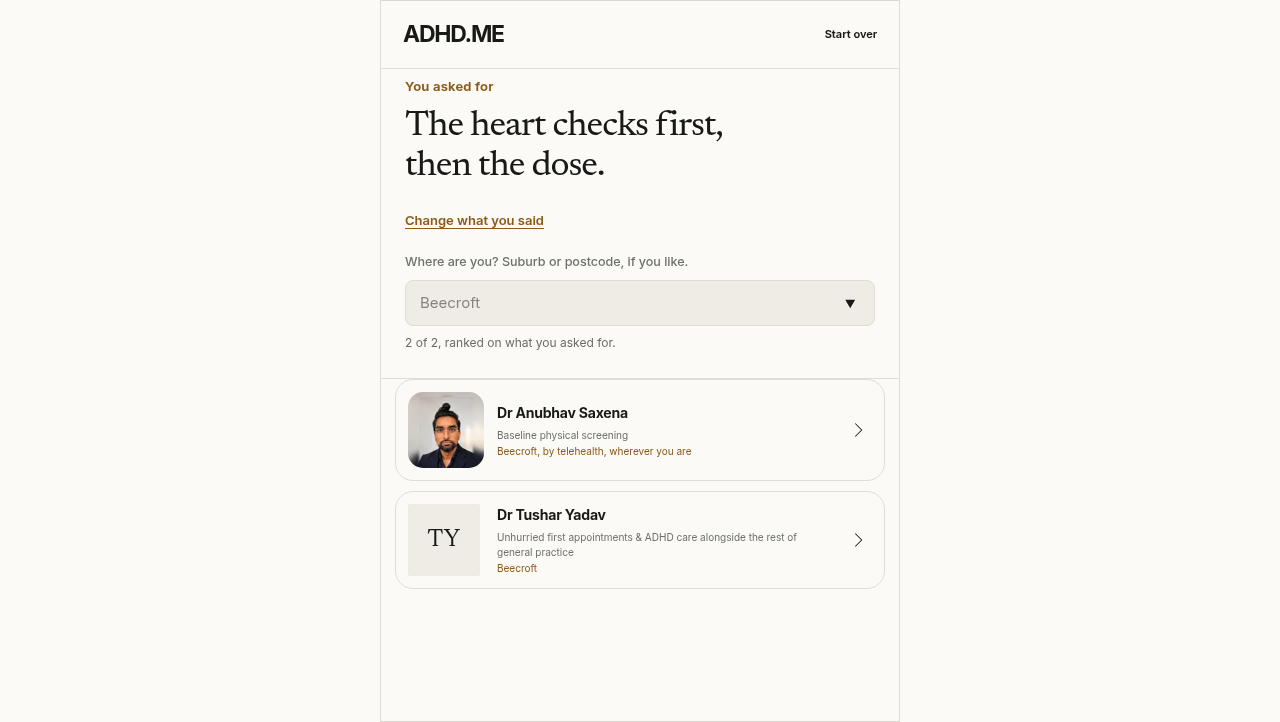
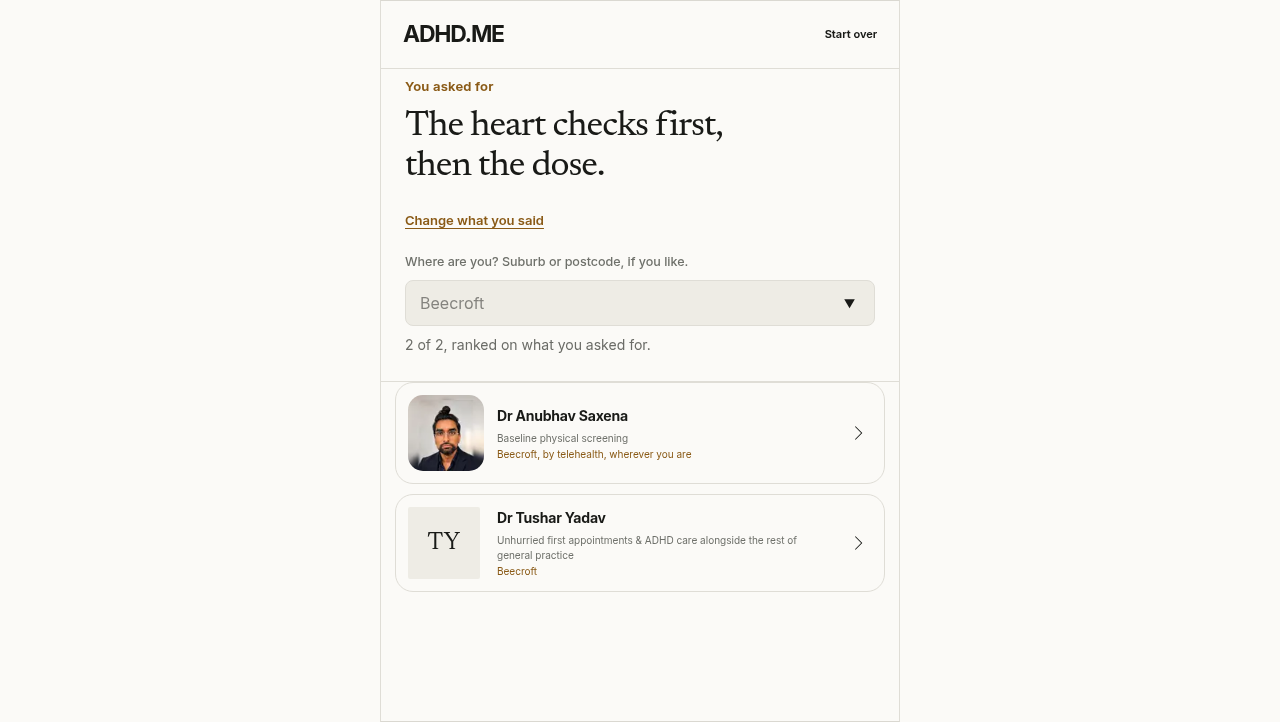
O14: the low-vision audit - contrast held, the size hierarchy was upside down
Audited the matcher and results screens for a visually impaired
elderly reader. Contrast passes AA on every measured pair (table in
design-qa.md) - but AA at 12px is compliant and still unreadable, and
the 12px text was exactly what the screen turns on: the match reason
on each row, the 'this is not a ranking' banner, the closed-books
warning. The decorative headline ran 27px while the consequential
sentences ran 12px grey.

- Row reasons 14px, names 16px, count line 14px, quality banner and
  tie note 15px muted, clarify lead 14px, chips 15px.
- iOS force-zoom killed: the suburb field goes 15->16px (the iOS
  threshold below which focusing an input zooms the whole page).
- iOS sticky hover killed: hover styles now under @media (hover:
  hover) - a tapped clarifier chip stayed white-with-border and read
  as a selected state meaning nothing (visible in the production
  screenshot that triggered O13).
- Touch targets (>=44px), focus-visible outlines, role=status and
  real-button rows verified and recorded.
- Known bound recorded: px sizing means browser zoom works but OS
  font-size preference does not; a rem migration is filed as a
  decision, not a discovery.

mobile-fit (390px), a11y and the screenshot specs all green after.

Vault log skipped: Stefan-Brain unreachable from this session.

Claude-Session: https://claude.ai/code/session_01TVamNq6Z6TcjKFmyw63W9E

diff --git a/app/globals.css b/app/globals.css
@@ -671,15 +671,20 @@ textarea:focus-visible {
   width: 100%;
   min-height: 46px;
   padding: 0 14px;
+  /* 16px is the iOS threshold below which focusing an input force-zooms the page (O14). */
   border: 1px solid var(--line);
   border-radius: 8px;
   color: var(--ink);
   background: var(--stone);
   font: inherit;
-  font-size: 15px;
+  font-size: 16px;
 }
 .place-field input:focus-visible { outline: 2px solid var(--accent); outline-offset: 2px; }
-.place-status { margin: 8px 0 0; color: var(--faint); font-size: 12px; line-height: 1.5; }
+.place-status { margin: 8px 0 0; color: var(--faint); font-size: 14px; line-height: 1.5; }
+/* The match-quality banner and top-tie note carry the sentence the whole screen turns on —
+   "this is not a ranking". They were 12px faint grey: AA-compliant and functionally invisible
+   to the low-vision reader the finder most needs to be honest with (O14). */
+.match-quality { font-size: 15px; color: var(--muted); }
 
 /* The computed distance, on its own line so it does not join the metadata dot chain. */
 .clinician-distance { display: block; margin-top: 3px; color: var(--faint); }
@@ -810,8 +815,10 @@ textarea:focus-visible {
   cursor: pointer;
 }
 
-.clinician-row:hover {
-  background: #f6f4ee;
+@media (hover: hover) {
+  .clinician-row:hover {
+    background: #f6f4ee;
+  }
 }
 
 .clinician-row img {
@@ -832,7 +839,7 @@ textarea:focus-visible {
 
 .clinician-row strong {
   margin-bottom: 5px;
-  font-size: 15px;
+  font-size: 16px;
   letter-spacing: -0.015em;
 }
 
@@ -846,7 +853,10 @@ textarea:focus-visible {
   line-clamp: 2;
   overflow: hidden;
   color: var(--muted);
-  font-size: 12px;
+  /* 12px put the match REASON — the one line that decides between rows — in the smallest type
+     on the screen, under a 15px name and a 27px headline. Inverted hierarchy for the reader
+     who most needs the reason legible (O14). */
+  font-size: 14px;
   line-height: 1.45;
 }
 
@@ -5442,14 +5452,14 @@ textarea:focus-visible {
    is that answering costs one tap, and a text box would ask the reader to do
    again the thing that just did not work. */
 .clarify { margin-top: 14px; padding-top: 14px; border-top: 1px solid var(--line); }
-.clarify-lead { margin: 0 0 9px; color: var(--muted); font-size: 13px; }
+.clarify-lead { margin: 0 0 9px; color: var(--muted); font-size: 14px; }
 .clarify-row { display: flex; flex-wrap: wrap; gap: 8px; margin: 0; padding: 0; list-style: none; }
 .clarify-chip {
   min-height: 44px; padding: 9px 15px; border: 1px solid var(--accent-tint); border-radius: 999px;
-  background: var(--accent-soft); color: var(--ink); font: inherit; font-size: 13.5px;
+  background: var(--accent-soft); color: var(--ink); font: inherit; font-size: 15px;
   text-align: left; cursor: pointer; transition: background-color .18s ease, border-color .18s ease;
 }
-.clarify-chip:hover { background: #fff; border-color: var(--accent); }
+@media (hover: hover) { .clarify-chip:hover { background: #fff; border-color: var(--accent); } }
 .clarify-chip:focus-visible { outline: 2px solid var(--accent); outline-offset: 2px; }
 @media (prefers-reduced-motion: reduce) { .clarify-chip { transition: none; } }
 

diff --git a/design-qa.md b/design-qa.md
@@ -104,3 +104,62 @@ real defect and no removable elements were found.
 `e2e/matching-verification.spec.ts`.
 
 final result: passed, one fix applied
+
+# Low-vision audit — matcher and results screens (O14, 2026-08-18)
+
+Audience audited for: a visually impaired elderly reader — the person most likely to be
+choosing a GP with someone else's phone in their hand. Method: measured contrast ratios of
+every text pair on the matcher/results screens, type sizes against what each element is FOR,
+touch targets, focus visibility, and the two platform behaviours (iOS input zoom, sticky
+hover) visible in the production screenshot that triggered O13.
+
+## Contrast: passes AA, measured
+
+| Pair | Ratio | Verdict |
+|---|---|---|
+| ink `#191a17` on paper `#fbfaf7` (body) | 16.75:1 | AAA |
+| accent `#8A5A16` on paper (links, distance, closed-books) | 5.66:1 | AA |
+| faint `#6b6c67` on paper (count line) | 5.07:1 | AA |
+| muted `#6e706a` on paper (row reasons, clarify lead) | 4.80:1 | AA |
+| ink on accent-soft `#f7efe3` (clarifier chips) | 15.32:1 | AAA |
+
+No contrast fixes needed; the token discipline (`--faint`'s own comment pins its floor) held.
+
+## The real defect: an inverted size hierarchy
+
+AA contrast at 12px is compliant and still unreadable for this audience — and the 12px text
+was exactly the text the screen turns on: the match REASON on each row (the one line that
+decides between GPs), the match-quality banner ("this is not a ranking"), and the
+closed-books warning. Meanwhile the decorative headline runs at 27px serif. The reader with
+the least vision was given the least legibility on the most consequential sentences.
+
+Fixed: row reasons 12→14px, row names 15→16px, count line 12→14px, match-quality banner and
+tie note 12→15px in `--muted`, clarify lead 13→14px, clarifier chips 13.5→15px.
+
+## Platform behaviours fixed
+
+- **iOS force-zoom on the suburb field**: any input under 16px makes iOS zoom the whole page
+  on focus — disorienting for a reader who has already zoomed where they want. 15→16px.
+- **Sticky hover**: after a touch, iOS keeps `:hover` styles until the next tap, so one
+  clarifier chip stayed white-with-border and read as a selected state meaning nothing —
+  visible in the production screenshot. Hover styles now apply only under
+  `@media (hover: hover)`.
+
+## Verified and kept
+
+- Touch targets: clarifier chips `min-height: 44px`; clinician rows ~100px; the suburb field
+  46px. All at or above the 44px floor.
+- Focus: `:focus-visible` outlines (2px accent) on chips, rows and the field.
+- Screen reader: the banner, tie note and count line carry `role="status"`; rows are real
+  buttons named by their content; the results heading order is h1-first.
+- Minimalism for this audience: fewer, larger elements is the same direction O11 pushed;
+  nothing needed removing — the screen's element count was already minimal, only its
+  emphasis was upside down.
+
+## Known bound, recorded
+
+Type is sized in px throughout the tree, so browser zoom scales everything but a user's
+OS/browser font-size *preference* does not. A rem migration is a tree-wide unit refactor —
+out of an audit's scope, filed here so it is a decision rather than a discovery.
+
+final result: passed after fixes; evidence `qa/matching-o10/` (re-rendered)
